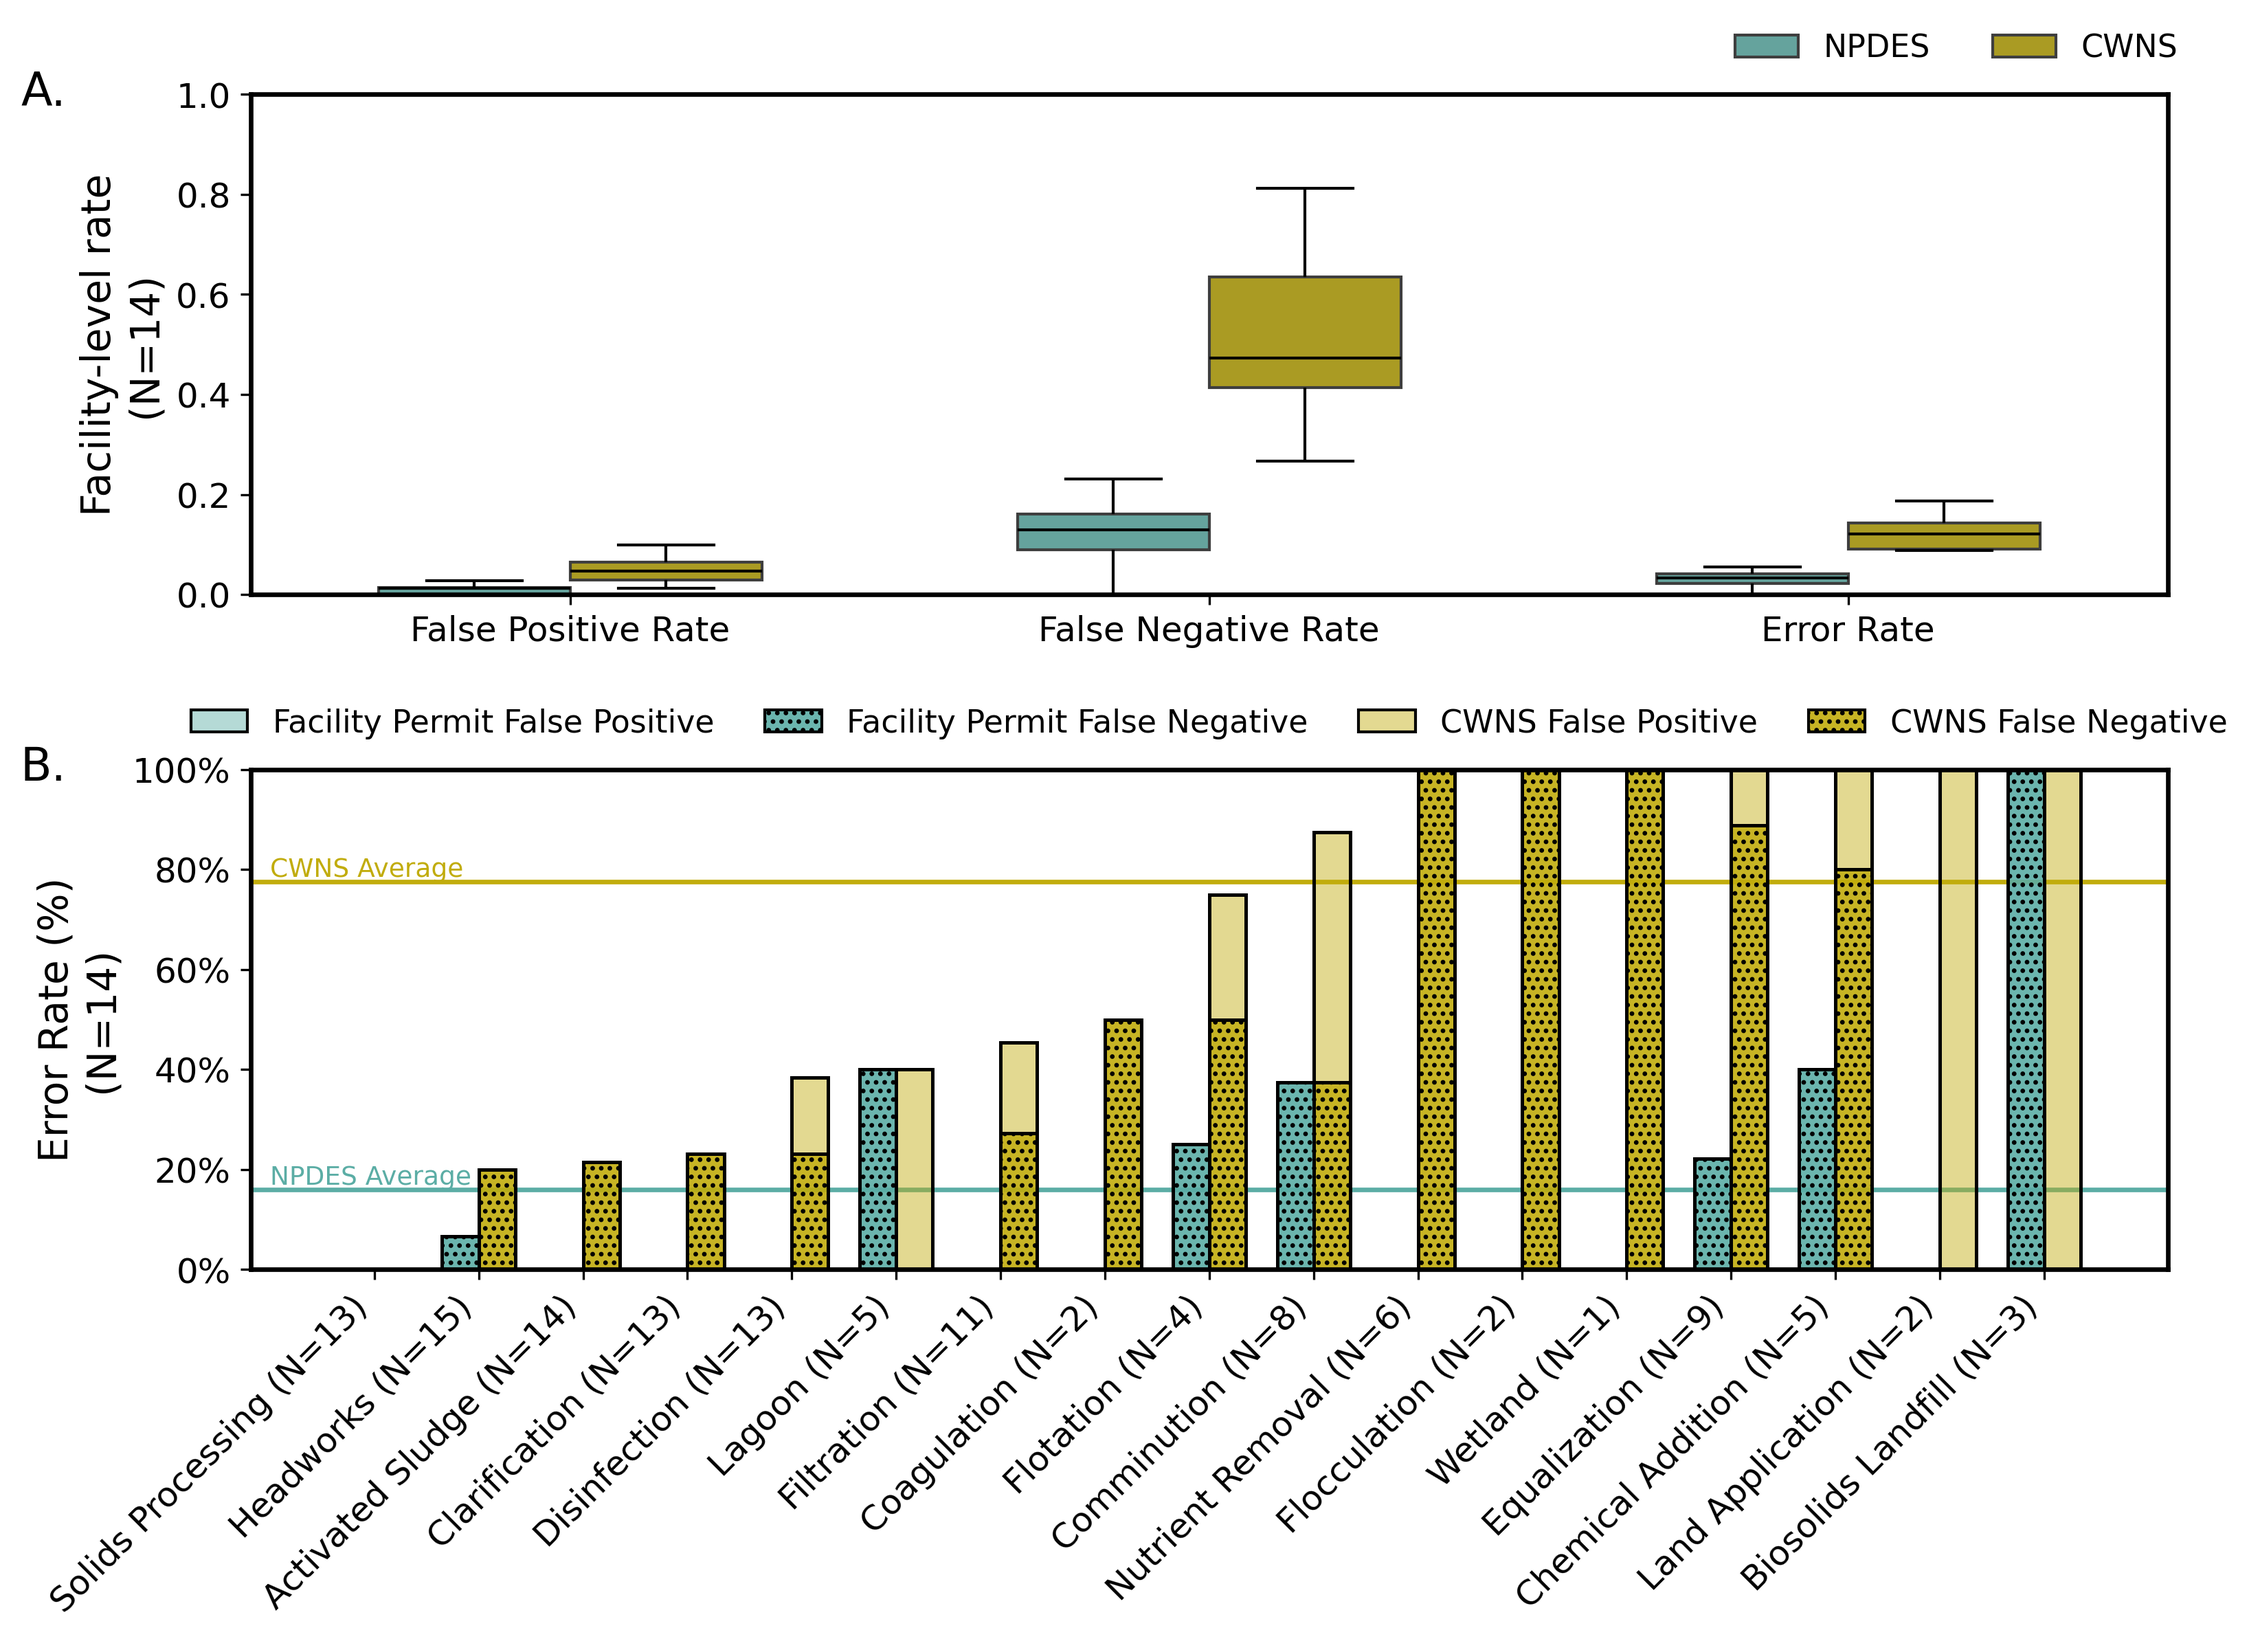
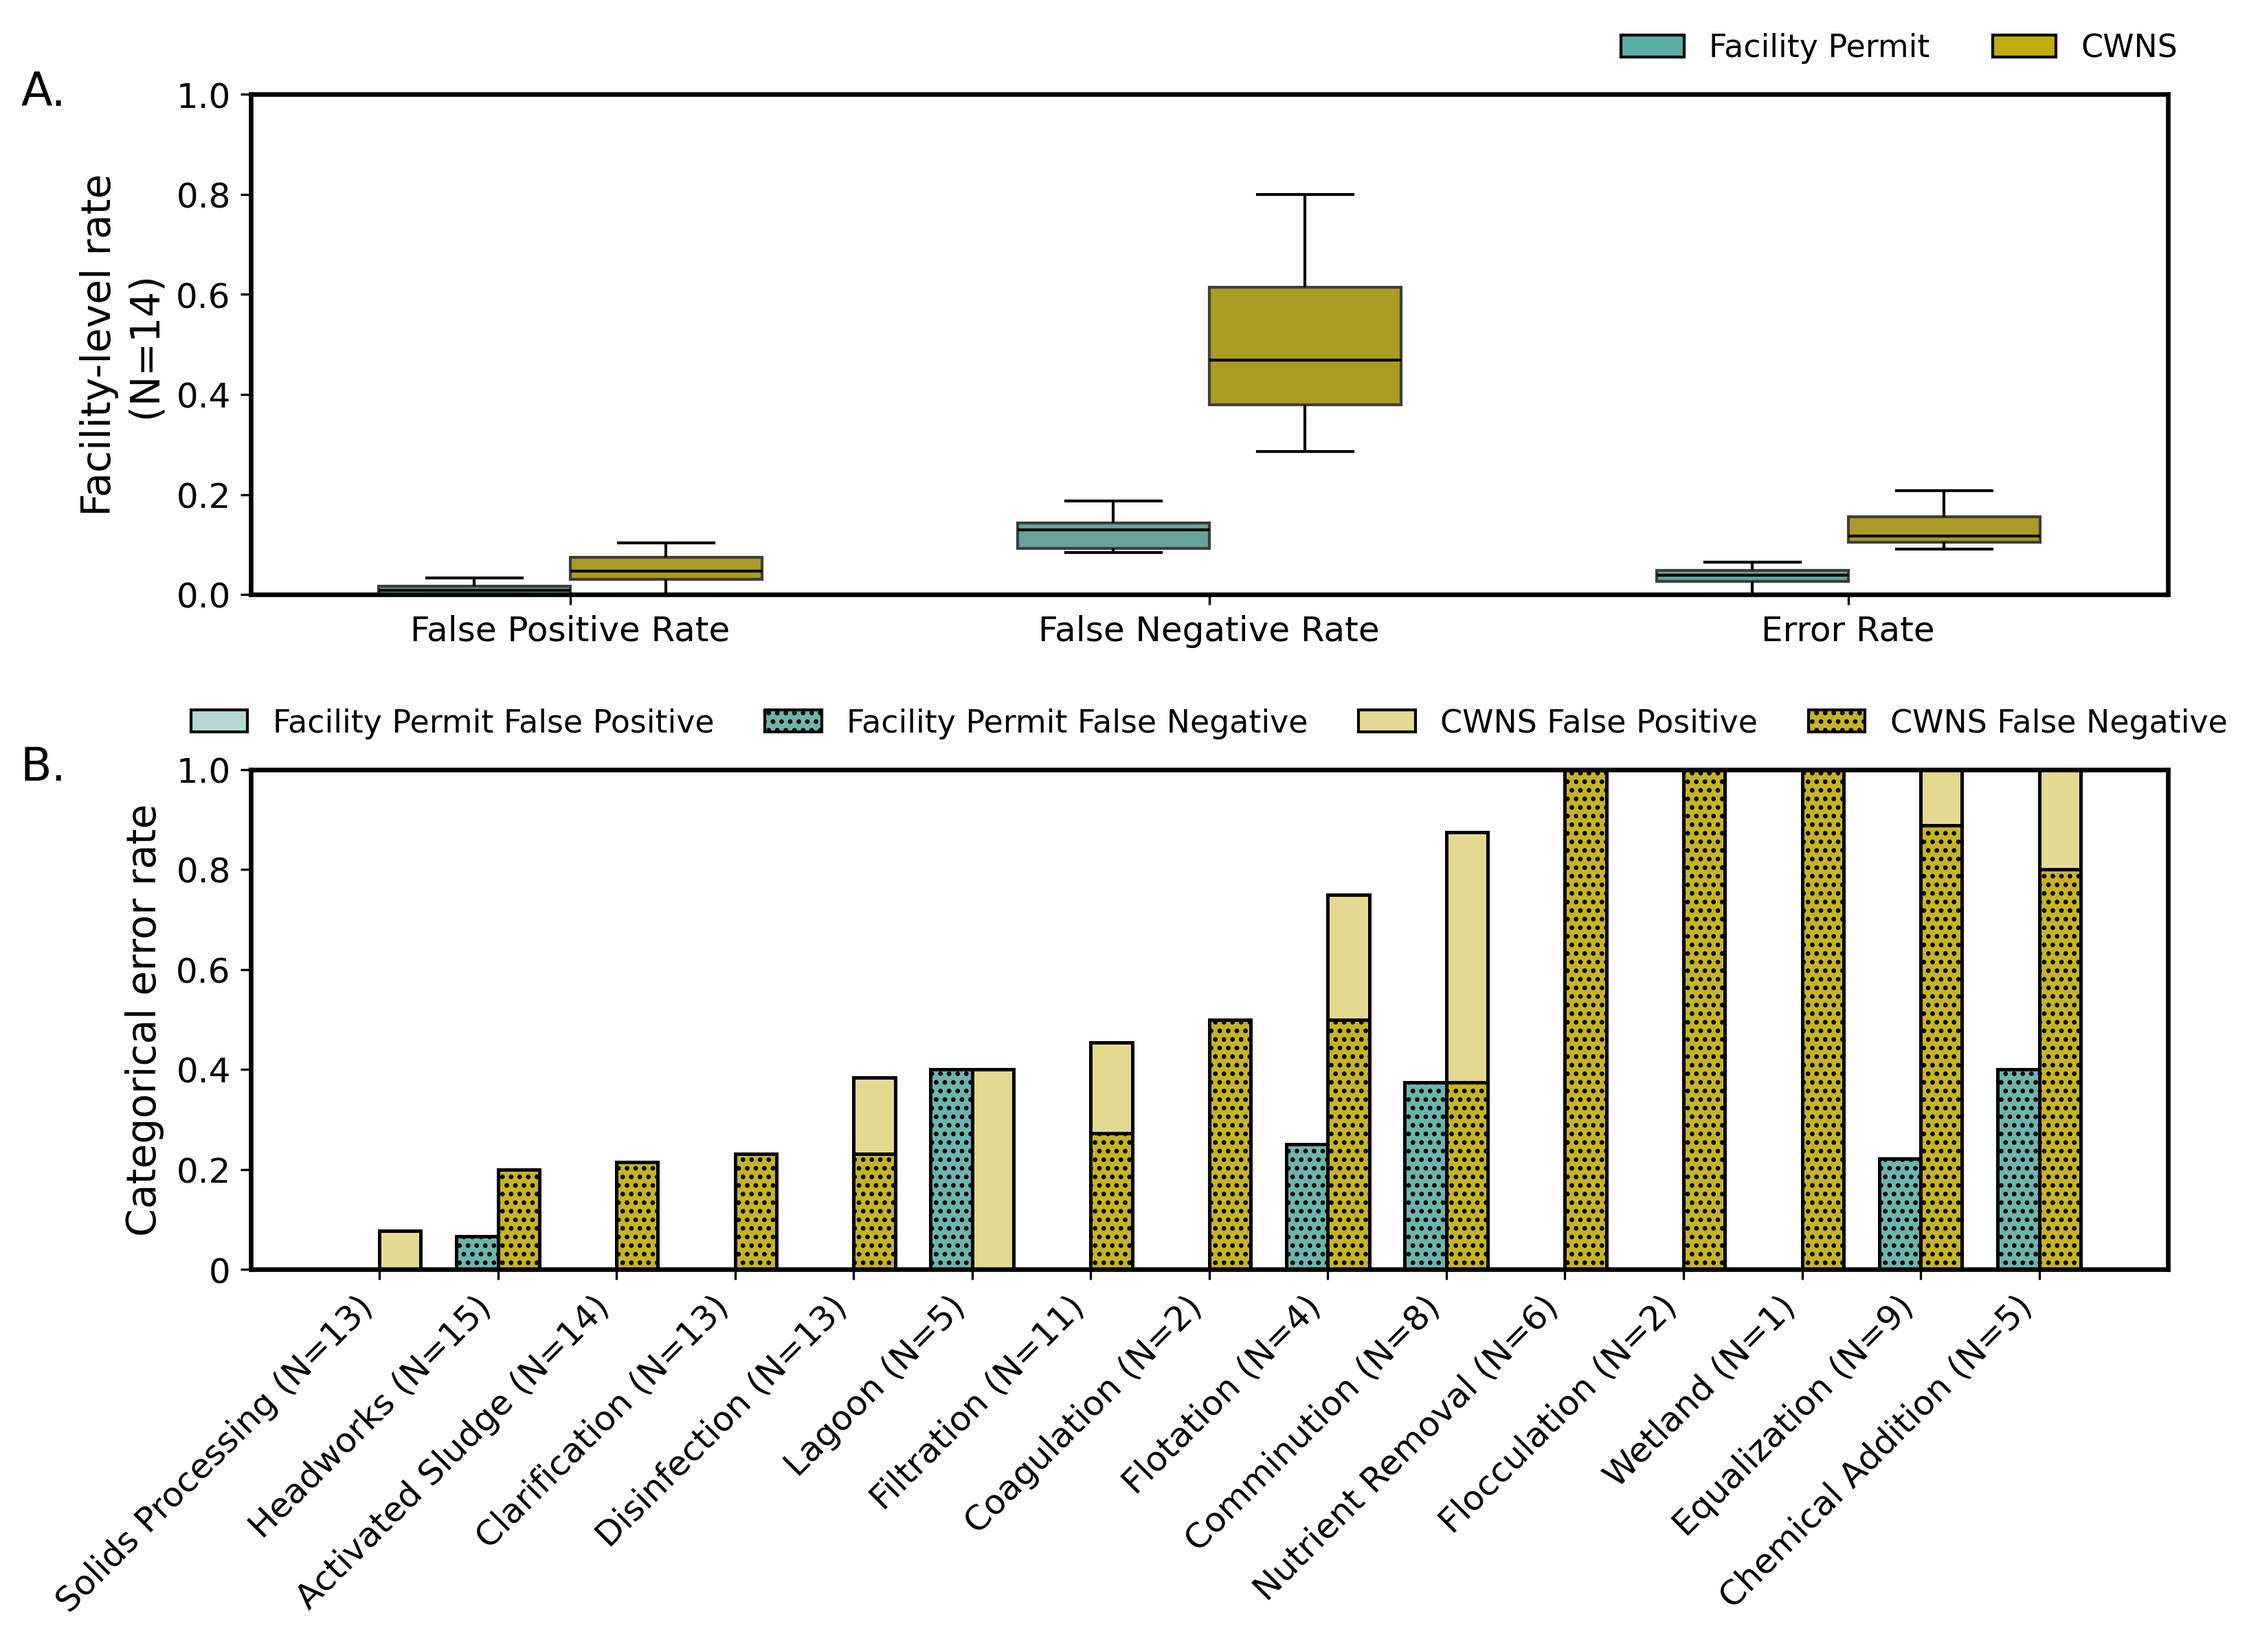
Final version of Figure 2 (for now)

diff --git a/wwtp_process_extraction/figure_2_data_source_comparison.py b/wwtp_process_extraction/figure_2_data_source_comparison.py
@@ -1,4 +1,5 @@
 import os
+import numpy as np
 import pandas as pd
 import matplotlib.pyplot as plt
 import seaborn as sns
@@ -37,6 +38,8 @@ def build_category_facility_sets(
 
     for col in process_cols:
         category = leaf_to_category.get(col, col)
+        print("category:", category)
+        print("col:", col)
         if col in sd_common.columns:
             for _, row in sd_common.iterrows():
                 if is_present(row.get(col, "")):
@@ -56,6 +59,7 @@ def build_category_facility_sets(
 def build_sd_rows(sd_fac, npdes_fac, cwns_fac, common_facilities):
     """Build summary rows for ground-truth comparison plotting from per-category facility sets."""
     all_cats = sorted(set(list(sd_fac.keys()) + list(npdes_fac.keys()) + list(cwns_fac.keys())))
+    print(all_cats)
     rows = []
     for cat in all_cats:
         supplemental_data = len(sd_fac[cat])
@@ -64,8 +68,8 @@ def build_sd_rows(sd_fac, npdes_fac, cwns_fac, common_facilities):
         if supplemental_data == 0 and npdes == 0 and cwns == 0:
             continue
         if supplemental_data > 0:
-            npdes_str = f"{(npdes - supplemental_data) / supplemental_data * 100:+.0f}%"
-            cwns_str = f"{(cwns - supplemental_data) / supplemental_data * 100:+.0f}%"
+            npdes_str = f"{(npdes - supplemental_data) / supplemental_data :+.0f}%"
+            cwns_str = f"{(cwns - supplemental_data) / supplemental_data :+.0f}%"
         else:
             npdes_str = f"+{npdes}" if npdes > 0 else "0"
             cwns_str = f"+{cwns}" if cwns > 0 else "0"
@@ -101,7 +105,7 @@ def main():
     leaf_to_category = {
         leaf: cat_name
         for cat_name, cat_value in unitprocess_keywords.items()
-        for leaf in get_leaf_names(cat_name, cat_value)
+        for leaf in get_leaf_names(cat_name, cat_value, exclude_categories=[])
     }
 
     # remove facilities with no data in CWNS
@@ -155,8 +159,9 @@ def main():
         for pid in sd_not_common:
             name = supplemental_data_df.loc[supplemental_data_df["Place ID"] == pid, "Facility Name"].iloc[0]
             print(f"  {pid}: {name}")
-    # TODO: ignore Unspecified columns for unit-process-level analysis
-    sd_fac, npdes_fac, cwns_fac = build_category_facility_sets(
+    # remove 'Unspecified' columns for unit-process-level analysis
+    cols_no_unspec = [col for col in all_sheet_process_cols if "Unspecified" not in col]
+    sd_cat, npdes_cat, cwns_cat = build_category_facility_sets(
         all_sheet_process_cols,
         supplemental_data_common,
         text_common,
@@ -164,9 +169,7 @@ def main():
         leaf_to_category,
     )
 
-    sd_simple_rows = build_sd_rows(sd_fac, npdes_fac, cwns_fac, common_facilities)
-    print(sd_fac)
-    all_cats = sorted(set(list(sd_fac.keys()) + list(npdes_fac.keys()) + list(cwns_fac.keys())))
+    sd_simple_rows = build_sd_rows(sd_cat, npdes_cat, cwns_cat, common_facilities)
 
     tick_fontsize = 12
     label_fontsize = 14
@@ -179,11 +182,8 @@ def main():
         fp_col = f"{source}_FP"
         fn_col = f"{source}_FN"
         total_err_col = f"{source}_Error_Total"
+        #  Error rates normalized by total GT occurrences in the category (per-GT)
         sd_plot_df[total_err_col] = sd_plot_df[fp_col] + sd_plot_df[fn_col]
-        sd_plot_df[f"{source}_Error_Rate"] = sd_plot_df[total_err_col] / n_facilities
-        sd_plot_df[f"{source}_Missed_Rate"] = sd_plot_df[fn_col] / n_facilities
-        sd_plot_df[f"{source}_Extra_Rate"] = sd_plot_df[fp_col] / n_facilities
-        # Error rates normalized by total GT occurrences in the category (per-GT)
         sd_plot_df[f"{source}_Error_Rate_perGT"] = sd_plot_df.apply(
             lambda r: (r[fp_col] + r[fn_col]) / r["GroundTruth"] if r["GroundTruth"] else 0,
             axis=1,
@@ -196,7 +196,6 @@ def main():
             lambda r: r[fp_col] / r["GroundTruth"] if r["GroundTruth"] else 0,
             axis=1,
         )
-        sd_plot_df[f"{source}_Accuracy_Like"] = 1 - sd_plot_df[f"{source}_Error_Rate"]
         denom = sd_plot_df[total_err_col].where(sd_plot_df[total_err_col] > 0, 1)
         sd_plot_df[f"{source}_Missed_Share"] = sd_plot_df[fn_col] / denom
         sd_plot_df[f"{source}_Extra_Share"] = sd_plot_df[fp_col] / denom
@@ -223,21 +222,27 @@ def main():
         npdes = supplemental_data_row["NPDES No."]
         facility_name = supplemental_data_row["Facility Name"]
 
+        # TODO: create a categorical plot
+        # all_cats = 
+        # sd_cat_set = {
+            
+        # }
+
         sd_set = {
             col
-            for col in all_sheet_process_cols
+            for col in cols_no_unspec
             if col in supplemental_data_common.columns and is_present(supplemental_data_row.get(col, ""))
         }
 
         npdes_set = {
             col
-            for col in all_sheet_process_cols
+            for col in cols_no_unspec
             if col in text_common.columns and is_present(text_row.get(col, ""))
         }
 
         cwns_set = {
             col
-            for col in all_sheet_process_cols
+            for col in cols_no_unspec
             if col in cwns_common.columns
             and build_cwns_presence_mask(pd.Series([cwns_row.get(col, "")])).iloc[0]
         }
@@ -291,13 +296,13 @@ def main():
                 fn = int(fn)
                 sd_count = int(Supplemental_Data_Count)
                 cols_to_ignore = {"ok Agency", "Facility Name", "Place ID", "NPDES No.", "PDF_File"} 
-                num_cols = len(set(all_sheet_process_cols) - cols_to_ignore)
+                num_cols = len(set(cols_no_unspec) - cols_to_ignore)
             except Exception:
                 continue
             facility_metrics.append(
                 {
                     "Source": src,
-                    "key": key,
+                    "Key": key,
                     "False_Positive_Rate": fp / (num_cols - sd_count),
                     "False_Negative_Rate": fn / sd_count,
                     "Error_Rate": (fp + fn) / num_cols,
@@ -312,7 +317,7 @@ def main():
     # Panel A: split violin similar to figure_s2 comparing NPDES vs CWNS
     violin_cols = ["False_Positive_Rate", "False_Negative_Rate", "Error_Rate"]
     plot_df = (
-        fac_metrics_df.melt(id_vars=["Source", "key"], value_vars=violin_cols, var_name="Metric", value_name="Value")
+        fac_metrics_df.melt(id_vars=["Source", "Key"], value_vars=violin_cols, var_name="Metric", value_name="Value")
     )
     palette = {"NPDES": COLORS["npdes_kw"], "CWNS": COLORS["Clean Watershed Needs Survey"]}
     sns.boxplot(
@@ -344,13 +349,21 @@ def main():
         except Exception:
             pass
     axA.set_ylim(0, 1)
-    axA.set_ylabel(f"Facility-level rate\n(N={int(fac_metrics_df['key'].nunique())})", fontsize=label_fontsize)
+    axA.set_ylabel(f"Facility-level rate\n(N={int(fac_metrics_df['Key'].nunique())})", fontsize=label_fontsize)
     axA.set_xticks(range(len(violin_cols)))
     axA.set_xticklabels([c.replace("_", " ") for c in violin_cols], fontsize=12)
     axA.tick_params(axis="y", labelsize=12)
-    axA.legend(loc="upper right", bbox_to_anchor=(1.02, 1.18), ncol=2, frameon=False, fontsize=11)
-    # capture handles/labels from top legend to duplicate on bottom subplot
-    _axA_handles, _axA_labels = axA.get_legend_handles_labels()
+    axA.legend(
+        handles=[
+            Patch(facecolor=to_rgba(COLORS["npdes_kw"]), edgecolor="black", label="Facility Permit"),
+            Patch(facecolor=to_rgba(COLORS["Clean Watershed Needs Survey"]), edgecolor="black", label="CWNS"),
+        ],
+        loc="upper right", 
+        bbox_to_anchor=(1.02, 1.18), 
+        ncol=2, 
+        frameon=False, 
+        fontsize=11
+    )
     axA.text(-0.12, 1.05, "A.", transform=axA.transAxes, ha="left", va="top", fontsize=16)
     set_thick_spines(axA, linewidth=1.6)
 
@@ -361,10 +374,10 @@ def main():
         npdes_x = i - w / 2
         cwns_x = i + w / 2
         # Use rates normalized by total GT occurrences in the category (per-GT)
-        npdes_fn_rate = row.get("NPDES_Missed_Rate_perGT", 0) * 100
-        npdes_fp_rate = row.get("NPDES_Extra_Rate_perGT", 0) * 100
-        cwns_fn_rate = row.get("CWNS_Missed_Rate_perGT", 0) * 100
-        cwns_fp_rate = row.get("CWNS_Extra_Rate_perGT", 0) * 100
+        npdes_fn_rate = row.get("NPDES_Missed_Rate_perGT", 0)
+        npdes_fp_rate = row.get("NPDES_Extra_Rate_perGT", 0)
+        cwns_fn_rate = row.get("CWNS_Missed_Rate_perGT", 0)
+        cwns_fp_rate = row.get("CWNS_Extra_Rate_perGT", 0)
         axB.bar(
             npdes_x,
             npdes_fn_rate,
@@ -395,44 +408,14 @@ def main():
         ha="right",
         fontsize=tick_fontsize,
     )
-    axB.set_ylabel(f"Error Rate (%)\n(N={n_facilities})", fontsize=label_fontsize)
+    axB.set_ylabel(f"Categorical error rate", fontsize=label_fontsize)
     axB.tick_params(axis="both", which="major", labelsize=tick_fontsize)
     set_thick_spines(axB, linewidth=1.6)
     axB.text(-0.12, 1.05, "B.", transform=axB.transAxes, ha="left", va="top", fontsize=16)
-    # average error lines (solid, percent) drawn behind the bars
-    axB.axhline(npdes_avg, color=COLORS["npdes_kw"], linewidth=1.6, linestyle="-", zorder=0)
-    axB.axhline(cwns_avg, color=COLORS["Clean Watershed Needs Survey"], linewidth=1.6, linestyle="-", zorder=0)
-    # label the average lines directly near the left edge (no background box)
-    try:
-        # place labels on far left (axes fraction) aligned with the average line heights
-        y_frac_npdes = npdes_avg / 100.0
-        y_frac_cwns = cwns_avg / 100.0
-        axB.text(
-            0.01,
-            y_frac_npdes,
-            "NPDES Average",
-            color=COLORS["npdes_kw"],
-            fontsize=9,
-            va="bottom",
-            ha="left",
-            transform=axB.transAxes,
-        )
-        axB.text(
-            0.01,
-            y_frac_cwns,
-            "CWNS Average",
-            color=COLORS["Clean Watershed Needs Survey"],
-            fontsize=9,
-            va="bottom",
-            ha="left",
-            transform=axB.transAxes,
-        )
-    except Exception:
-        pass
-    axB.set_ylim(0, 100)
-    pct_ticks = [i * 20 for i in range(6)]
+    axB.set_ylim(0, 1.0)
+    pct_ticks = [0, 0.2, 0.4, 0.6, 0.8, 1.0]
     axB.set_yticks(pct_ticks)
-    axB.set_yticklabels([f"{p}%" for p in pct_ticks], fontsize=tick_fontsize)
+    axB.set_yticklabels([f"{p}" for p in pct_ticks], fontsize=tick_fontsize)
 
     axB.legend(
         handles=[
